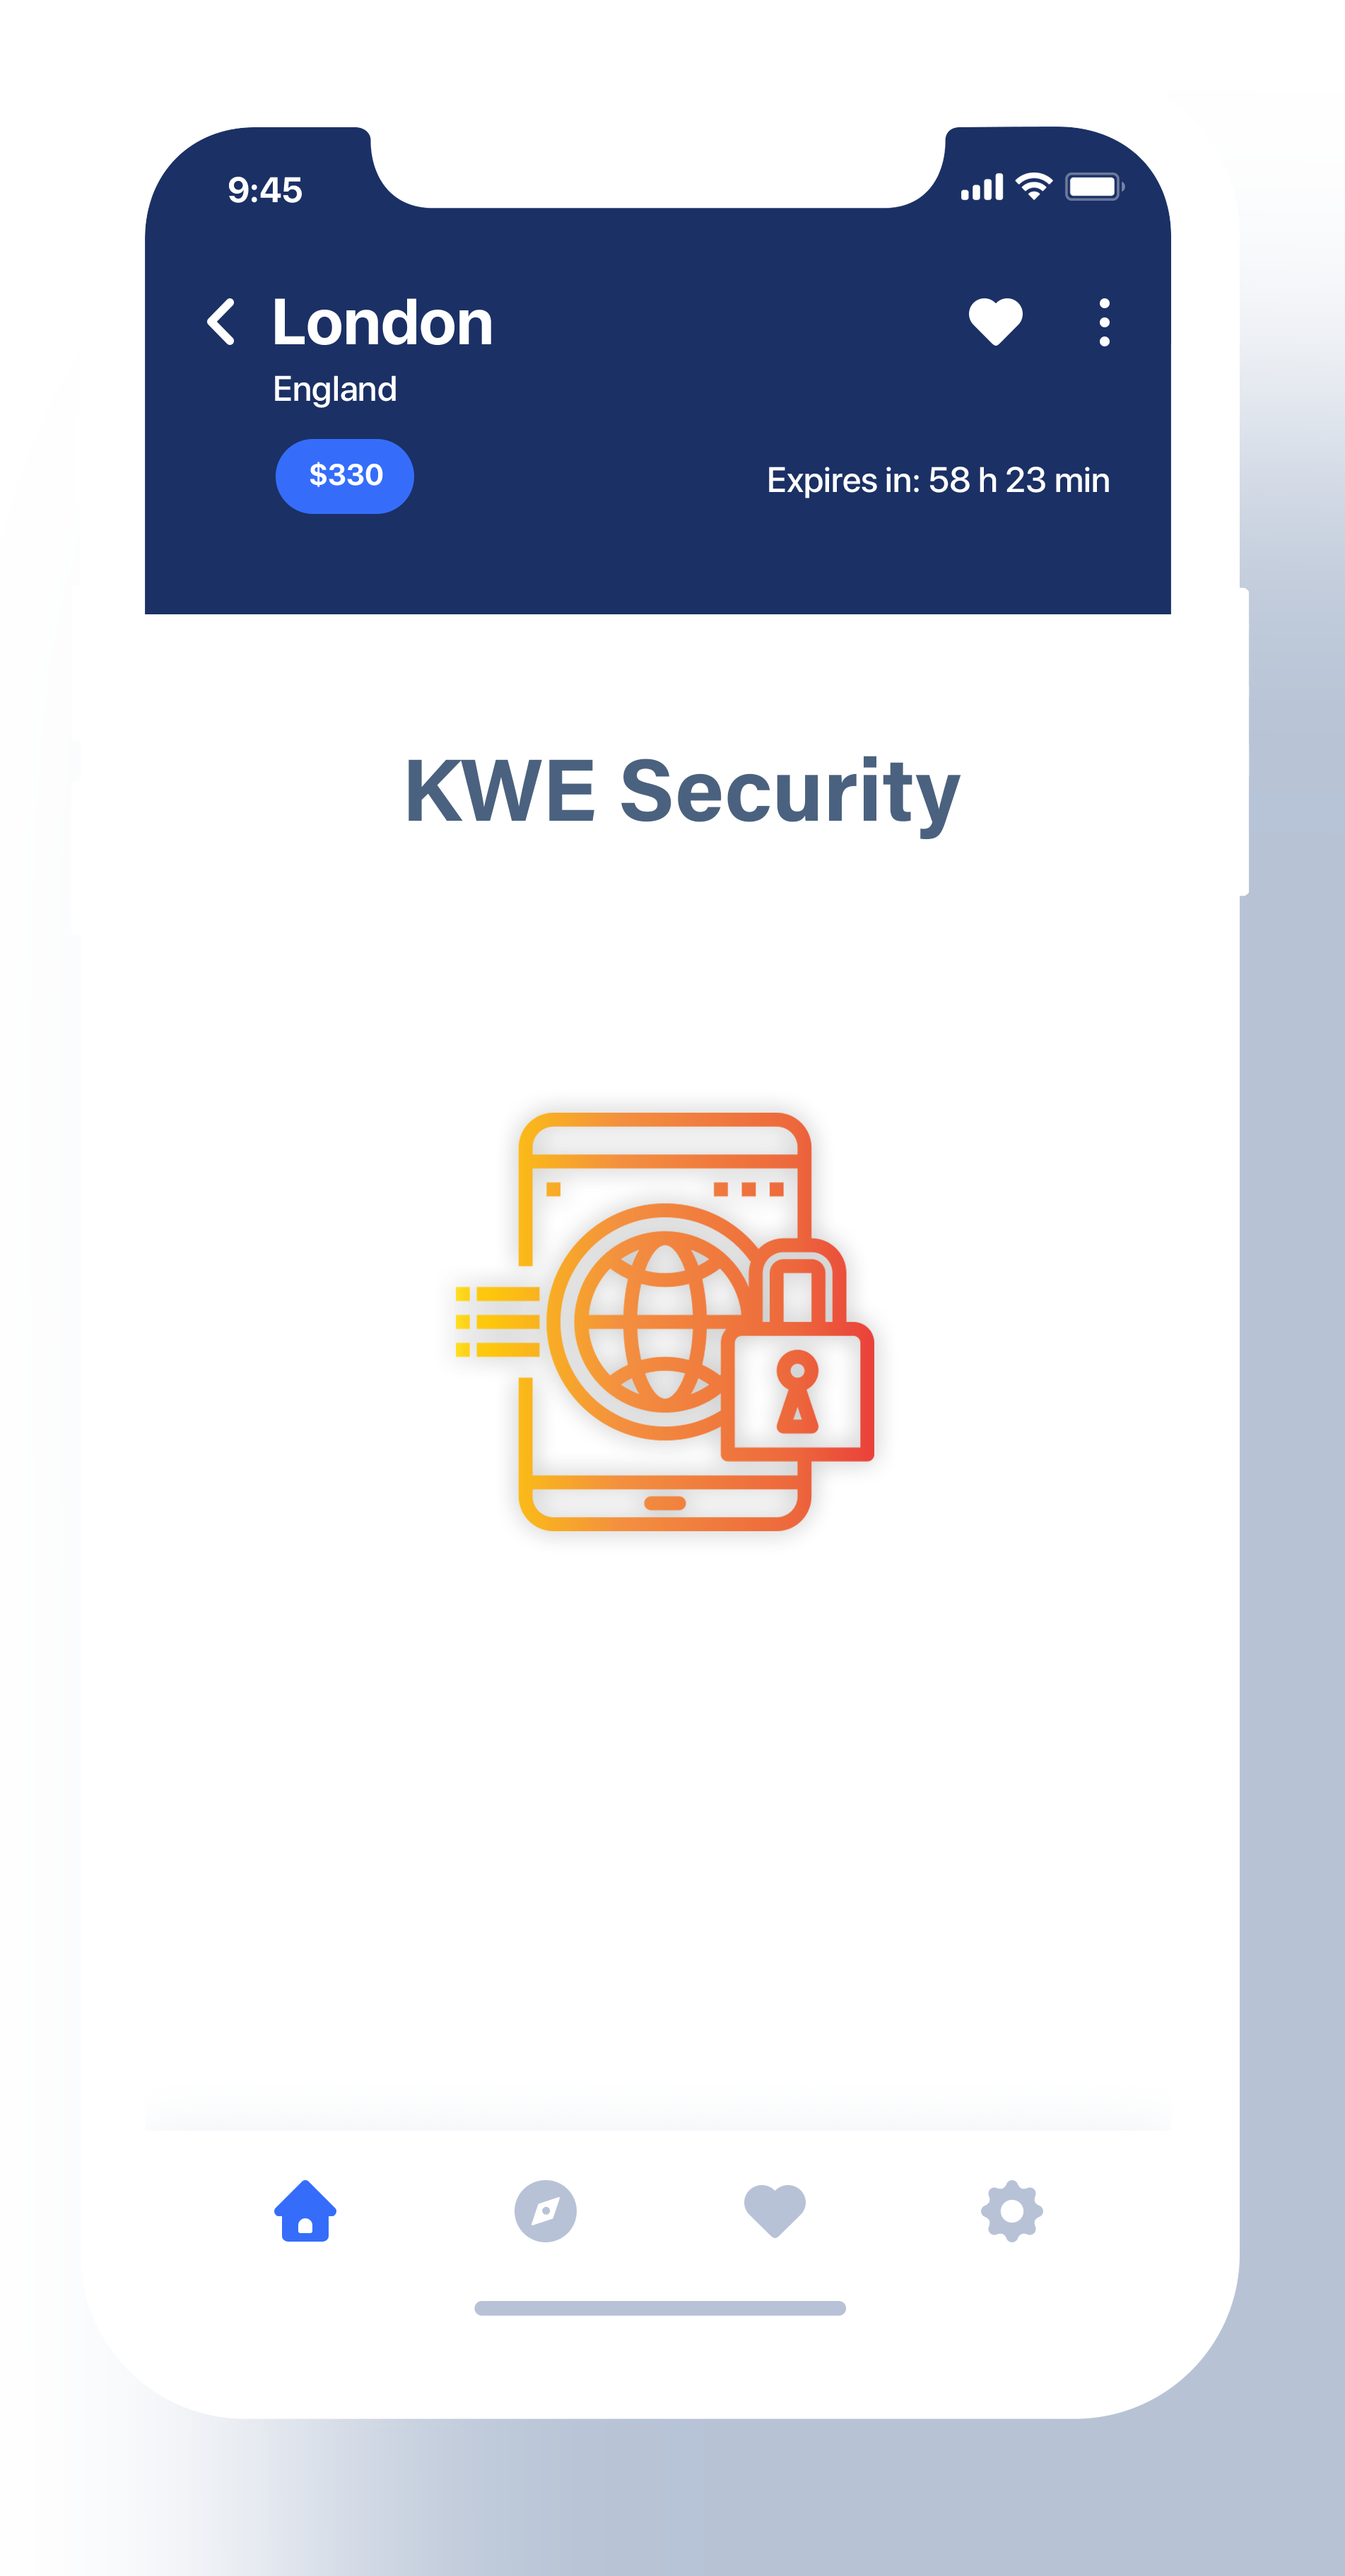
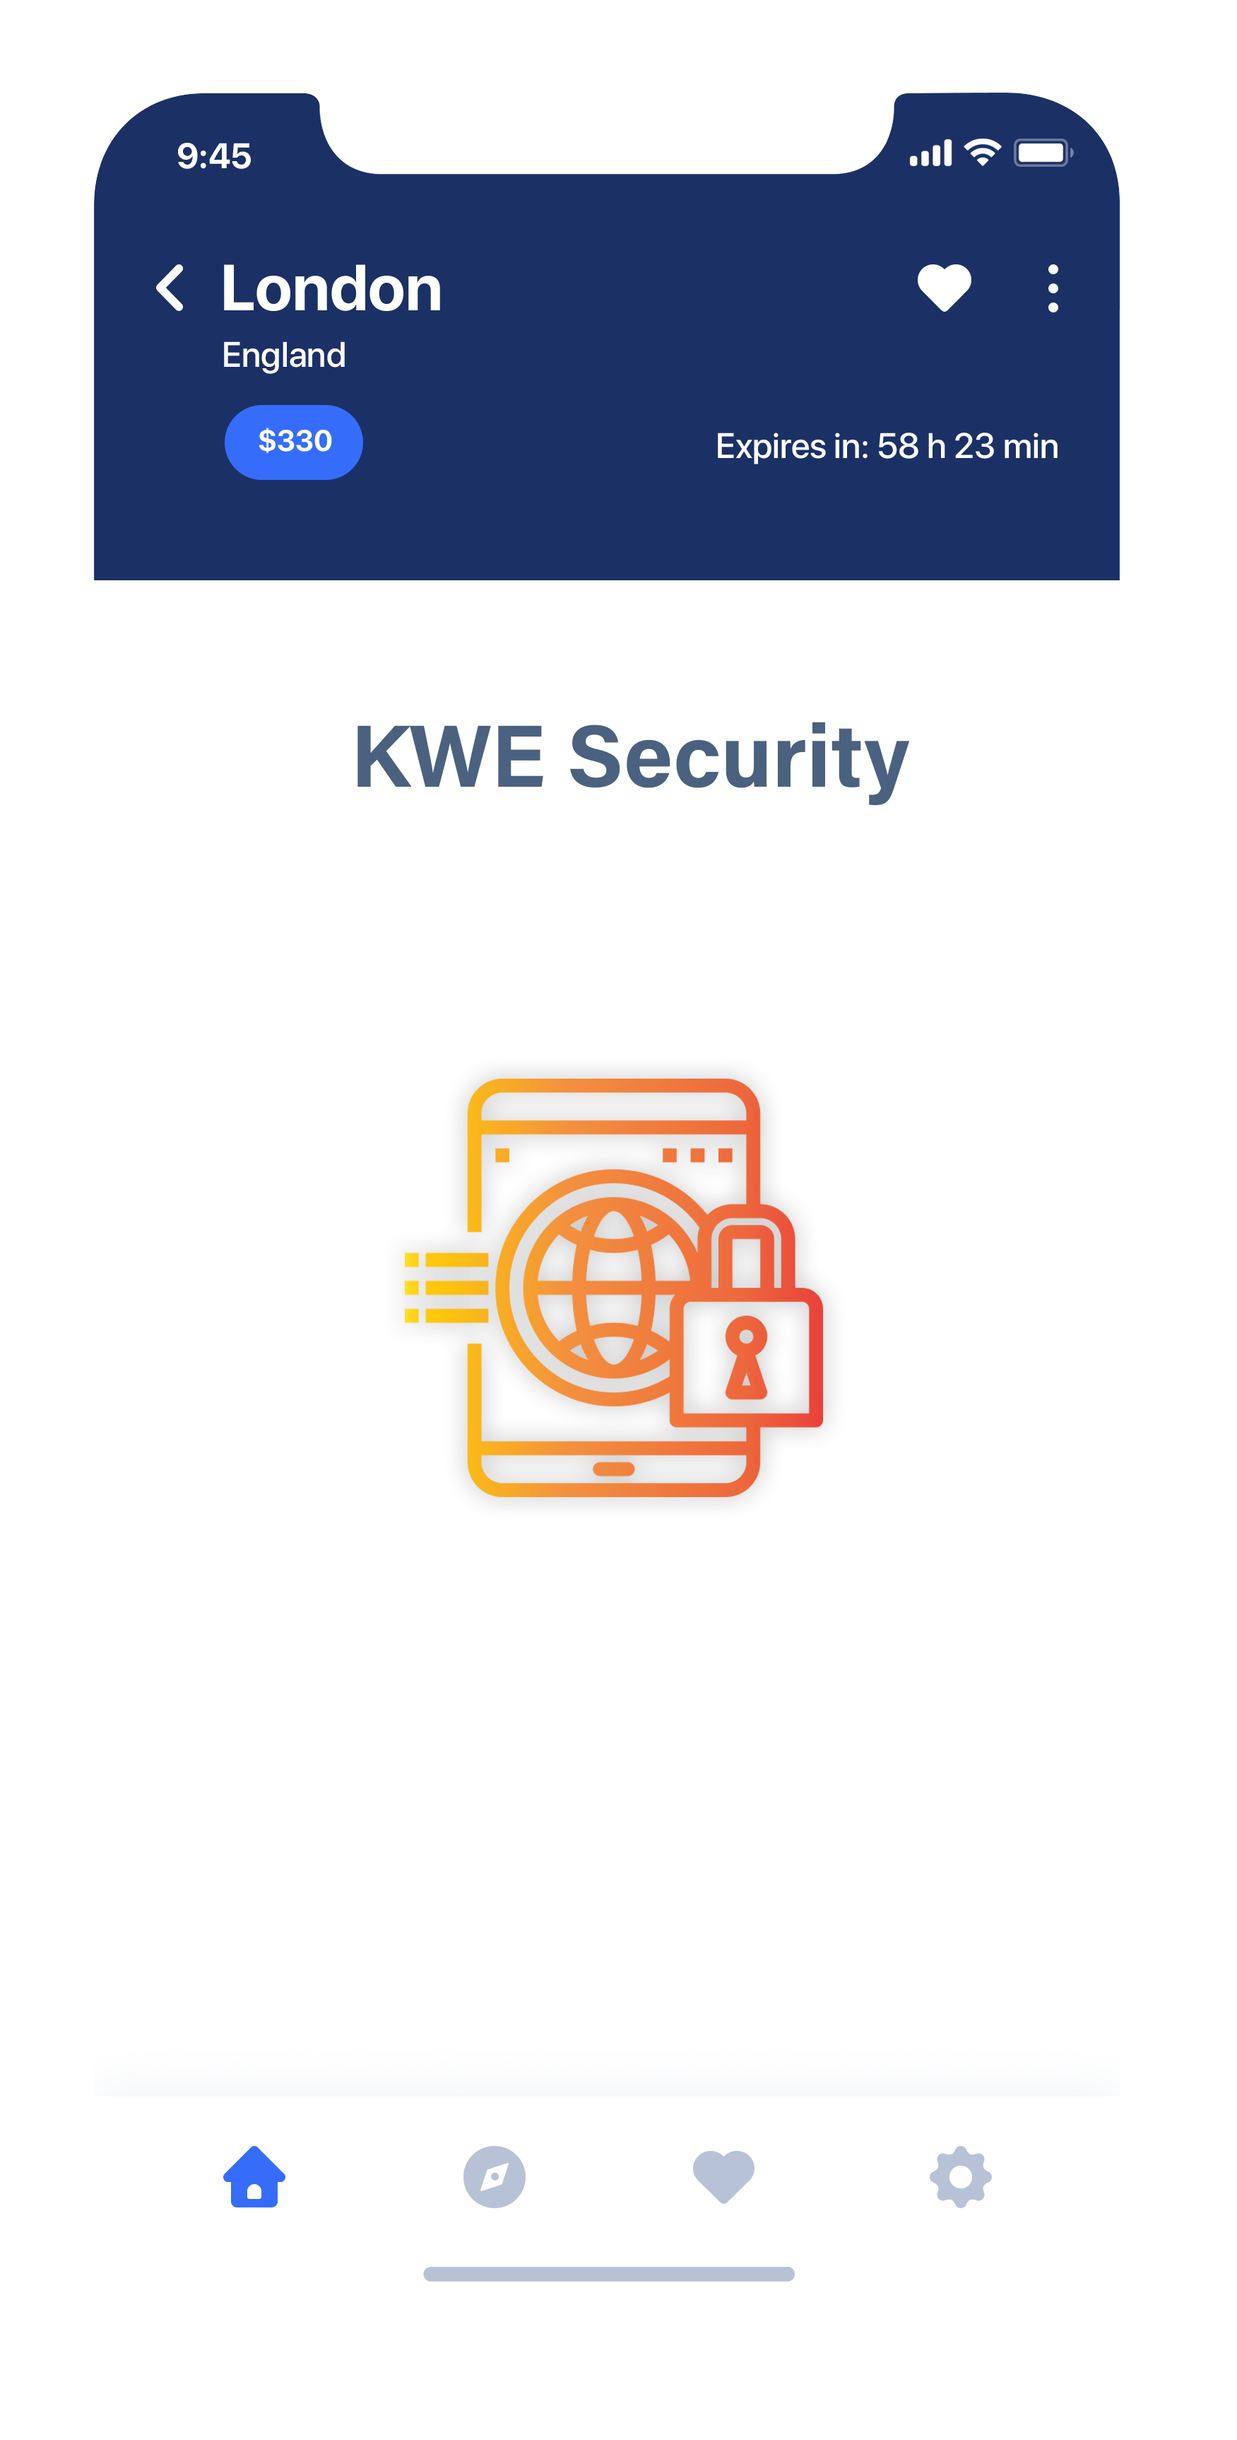
added text

diff --git a/index.html b/index.html
@@ -38,12 +38,12 @@
             <div class="vission">
                 <img src="images/illustrators/illustrator-2.png" alt="">
                 <h3>Vission</h3>
-                <p>Mission 2022 is more difficulties & challenging me to become a web developer. as a fulltime time job holder these journey is not easy.</p>
+                <p>Our vission is a so long distance like the end of ocean. we are looking to arrived the end of ocean & take maximum sunsewurnce from there.</p>
             </div>
             <div class="goals">
                 <img src="images/illustrators/illustrator-3.png" alt="">
                 <h3>Goals</h3>
-                <p>Mission 2022 is more difficulties & challenging me to become a web developer. as a fulltime time job holder these journey is not easy.</p>
+                <p>Out team goal is to presnting our team as a succes team member where we are able to achieve our maximum target & higlight our dream to anyone to be prodly.</p>
             </div>
         </div>
     </section>
@@ -57,16 +57,16 @@
         <div class="partial-option">
             <h2>Develop</h2>
             <h2>Without Limits</h2>
-            <p>Mission 2022 is more difficulties & challenging me to become a web developer. as a fulltime time job holder these journey is not easy. to achieve target need dedecated time, harwork & determination. if i can dedicate mine then insallah will achive my target.</p>
+            <p>We are all commited to develop our team by hardwork where not be specified limits. we are agree to achieve the board by our unlimited dedication.</p>
             <a class="buttons" href="http://bissket.com/">Read the Documentation</a>
         </div>
     </section>
 
     <section class="global-limit">
         <div class="partial-option">
-            <h2>Develop</h2>
-            <h2>Without Limits</h2>
-            <p>Mission 2022 is more difficulties & challenging me to become a web developer. as a fulltime time job holder these journey is not easy. to achieve target need dedecated time, harwork & determination. if i can dedicate mine then insallah will achive my target.</p>
+            <h2>Know Our</h2>
+            <h2>Global Community</h2>
+            <p>Out global community is very strong. we are combinned 52 member around the worlds. each one are fully charged to give their best support from anywhre. we have a strong problem solving froup with global network.</p>
             <a class="buttons" href="http://bissket.com/">Read the Documentation</a>
         </div>
 
@@ -81,12 +81,12 @@
         <h2>Build <span>Internet Security</span></h2>
         <div class="security-content">
             <div class="partial-option">
-                <img src="images/shapes/shape-9.png" alt="">
+                <img src="images/shapes/shape-10.png" alt="">
             </div>
             <div class="partial-option">
                 <h2>Stay Safe With</h2>
                 <h2>KWE <span>Security</span></h2>
-                <p>Mission 2022 is more difficulties & challenging me to become a web developer. as a fulltime time job holder these journey is not easy. to achieve target need dedecated time, harwork & determination. if i can dedicate mine then insallah will achive my target.</p>
+                <p>KWE security is an multi optional security apps where we have extracked full features to protec your online activity from any one. like hacker, spammer etc. syncronysly it's able to detect unwanted activity in your brose or dsta are & notify you to immidiate action.</p>
                 <a class="buttons" href="http://bissket.com/">App Features</a>
             </div>
         </div>

diff --git a/style.css b/style.css
@@ -159,3 +159,7 @@ footer h3 span{
     align-items: center;
     justify-content: center;
 }
+
+.security-content img{
+    width: 60%;
+}
